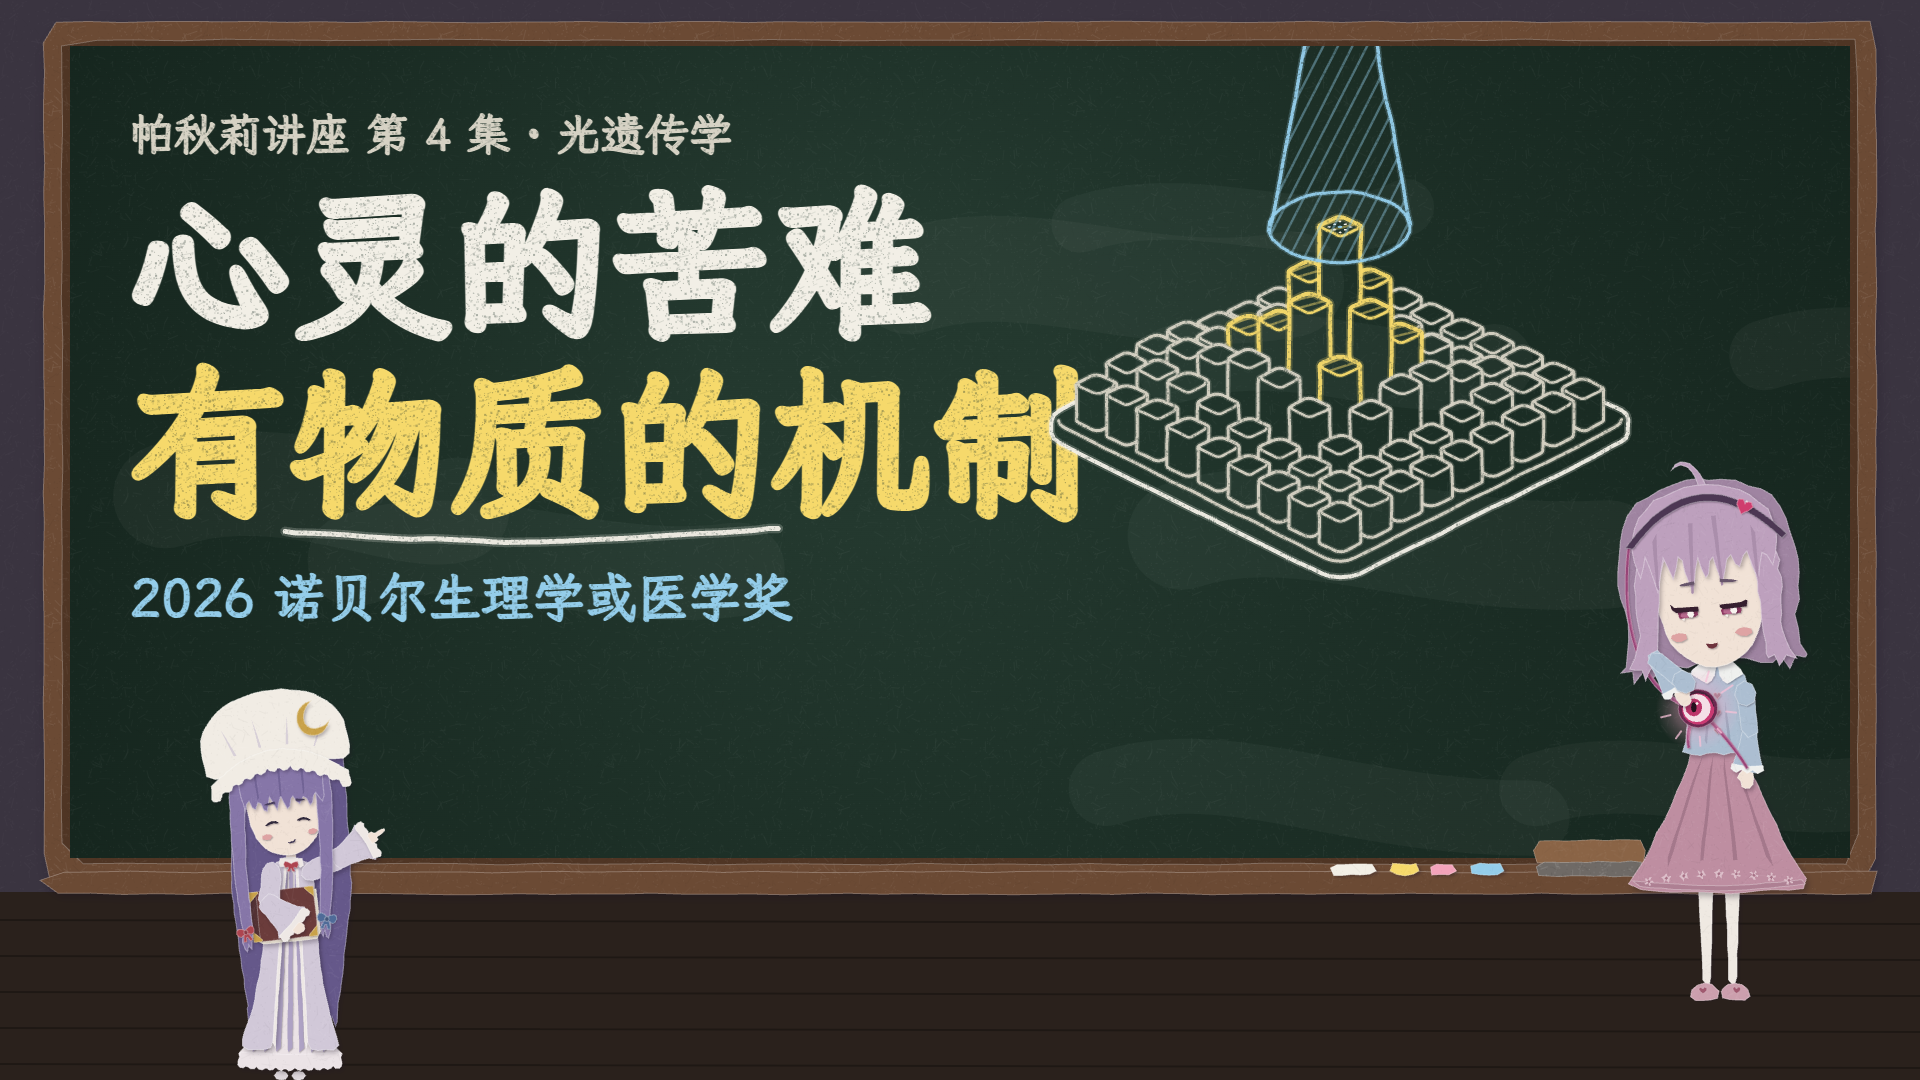
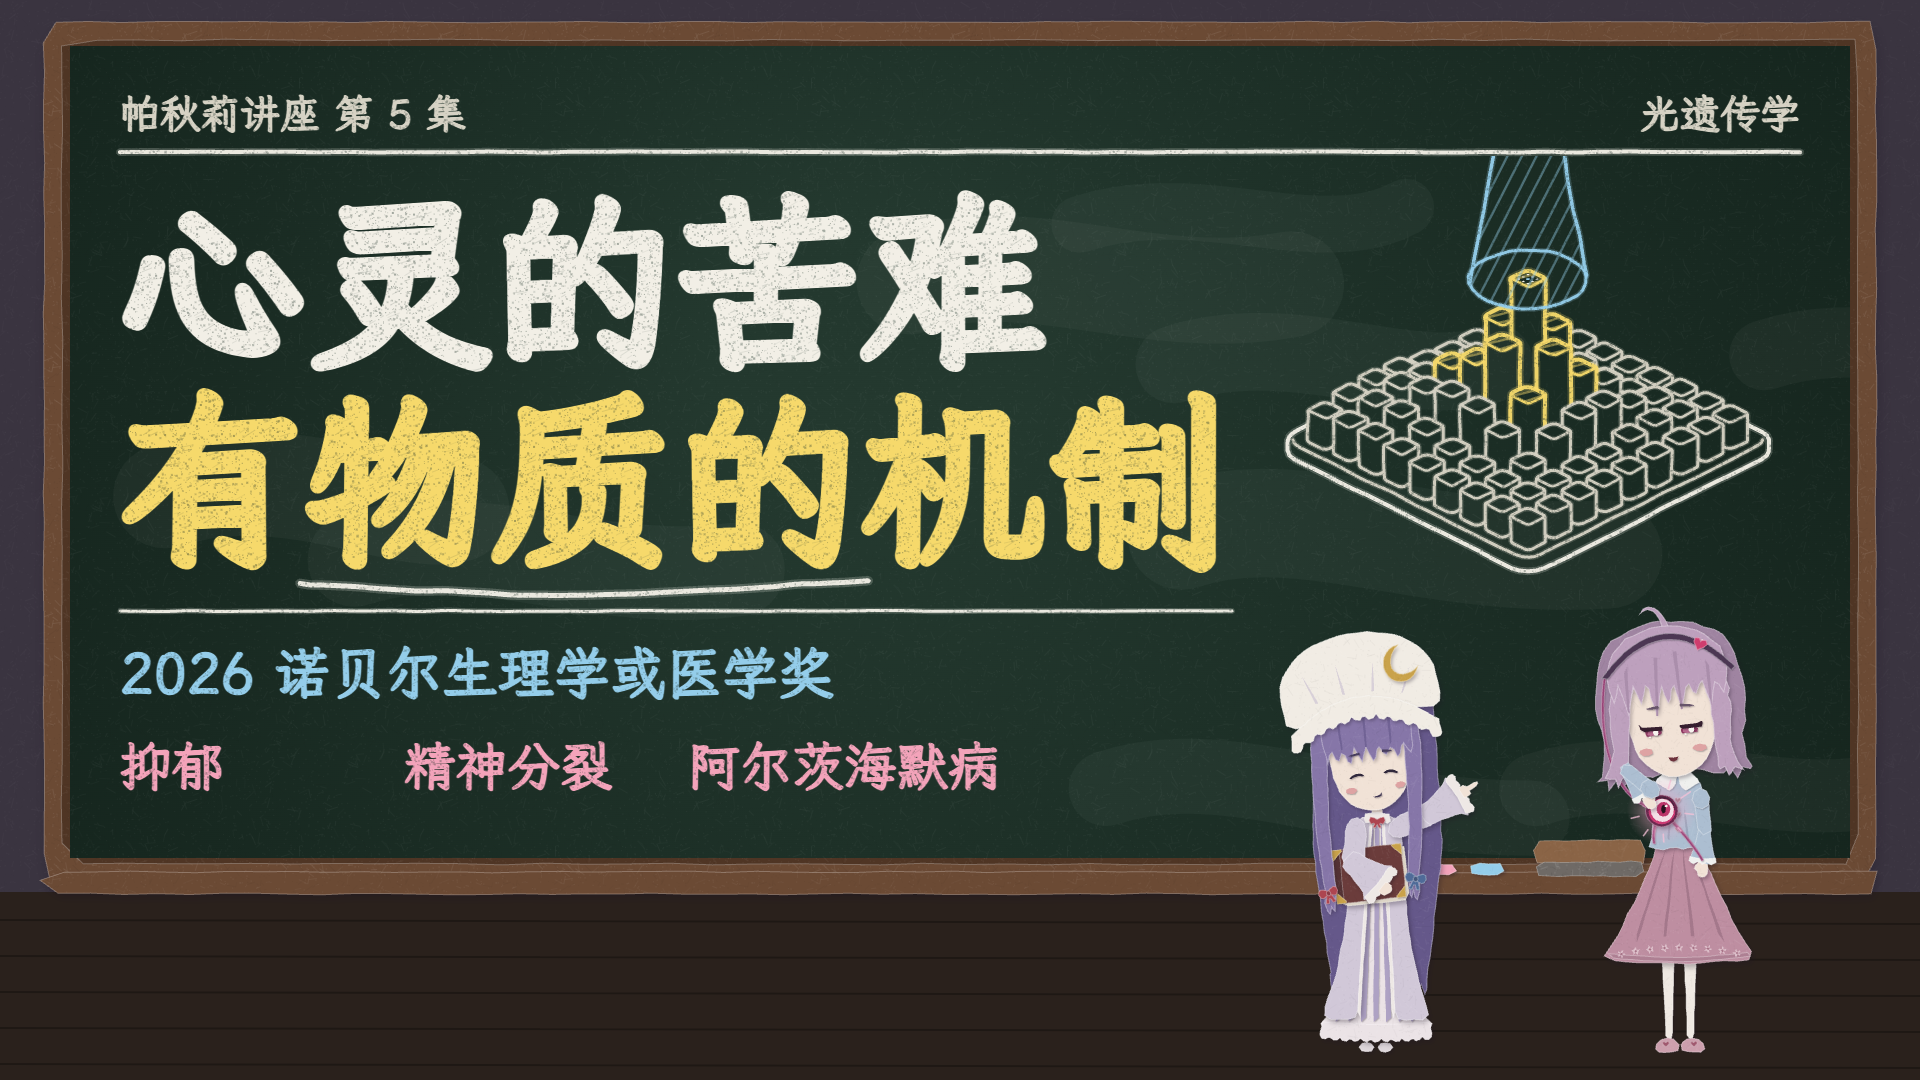
封面改成 6 列网格，两个角色同高同地线；仓库改名为第 5 集

Changed region(s): [[0.0625, 0.0306, 0.9375, 1.0], [0.6562, 0.5806, 0.7812, 0.9778], [0.3438, 0.6722, 0.5312, 0.7333]]

diff --git a/cover.html b/cover.html
@@ -28,24 +28,43 @@ canvas { display: block; }
 <script>
 const COV_AR = Q.get('ar') === '43' ? '43' : '169', CW = COV_AR === '43' ? 1440 : 1920, CH = 1080, cv = document.getElementById('c');
 cv.width = CW; cv.height = CH;
-// 4:3 取 1920 画面中间的 1440（左右各裁 240），元素按各自的版式重新摆
-const L = COV_AR === '43'
-  ? { ox: 240, x: 300, tag: 40, ts: 128, y1: 300, y2: 448, sub: 44, ys: 548, ter: [1330, 400, 470], sat: [1560, 990, 470], pch: [400, 1075, 360] }
-  : { ox: 0, x: 130, tag: 44, ts: 160, y1: 320, y2: 500, sub: 52, ys: 616, ter: [1340, 420, 600], sat: [1720, 1000, 520], pch: [290, 1080, 400] };
+// 瑞士式网格：黑板内 6 列、槽 24；所有字和图的边落在列线和几条横线上。两个角色同高（h 相同）、脚踩同一条地板线。
+// 16:9：左 4 列是字（片名 / 副标题 / 三种病），右 2 列是光照柱阵，两个角色站在柱阵下面。
+// 4:3：取 1920 画面中间 1440（左右各裁 240），同一套版式按列宽缩小。
+const WIDE = COV_AR === '169', OX = WIDE ? 0 : 240;
+const G = WIDE ? { M: 120, cw: 260 } : { M: 312, cw: 196 }, GUT = 24;
+const col = k => G.M + (k - 1) * (G.cw + GUT), colEnd = k => col(k) + G.cw, XR = colEnd(6);
+const Y_INFO = 128, Y_RULE = 152, FEET = 1052, CH_H = WIDE ? 430 : 360;
+function covRule(lc, x0, x1, y, seed, w = 4) { ckLine(lc, [[x0, y], [x1, y]], { w, color: 'ink', seed, amp: .6 }); }
 function covDraw(c) {
-  c.save(); c.translate(-L.ox, 0);
+  c.save(); c.translate(-OX, 0);
   ckRoom(c, 0);
-  const [tx, ty, ts] = L.ter;
+  const tsW = (colEnd(4) - col(1)) / 6 | 0;   // 「有物质的机制」6 个字压满前 4 列
+  const y1 = Y_RULE + 36 + Math.round(tsW * .86), y2 = y1 + Math.round(tsW * 1.08);
+  let terr;
   ckLayer(c, CKCAM0, lc => {
-    ckText(lc, '帕秋莉讲座 第 4 集 · 光遗传学', L.x, 150, { size: L.tag, color: 'muted' });
-    ckText(lc, '心灵的苦难', L.x, L.y1, { size: L.ts, heavy: true });
-    ckText(lc, '有物质的机制', L.x, L.y2, { size: L.ts, color: 'yellow', heavy: true });
-    ckUnderline(lc, '物质的', L.x + zhWidth(lc, '有', L.ts), L.y2, L.ts, 'ink', 1, 9);
-    ckText(lc, '2026 诺贝尔生理学或医学奖', L.x, L.ys, { size: L.sub, color: 'blue' });
-    isoTerrain(lc, { x: tx, y: ty, s: ts, light: [4, 4], r: 3, level: 1.7, beam: true });
+    // 顶线 + 信息行
+    ckText(lc, '帕秋莉讲座 第 5 集', col(1), Y_INFO, { size: 40, color: 'muted' });
+    ckText(lc, '光遗传学', XR, Y_INFO, { size: 40, color: 'muted', align: 'right' });
+    covRule(lc, col(1), XR, Y_RULE, 3);
+    // 片名
+    ckText(lc, '心灵的苦难', col(1), y1, { size: tsW, heavy: true });
+    ckText(lc, '有物质的机制', col(1), y2, { size: tsW, color: 'yellow', heavy: true });
+    ckUnderline(lc, '物质的', col(1) + zhWidth(lc, '有', tsW), y2, tsW, 'ink', 1, 9);
+    // 左 4 列：线 → 副标题 → 三种病，各自起在列线上
+    const yr = y2 + (WIDE ? 64 : 72), ys = yr + (WIDE ? 82 : 90), yi = ys + (WIDE ? 92 : 100);
+    covRule(lc, col(1), colEnd(4), yr, 5, 3);
+    ckText(lc, '2026 诺贝尔生理学或医学奖', col(1), ys, { size: WIDE ? 56 : 46, color: 'blue' });
+    [['抑郁', 1], ['精神分裂', 2], ['阿尔茨海默病', 3]].forEach(([t, k]) => ckText(lc, t, col(k), yi, { size: WIDE ? 52 : 42, color: 'pink' }));
+    // 右 2 列：柱阵，光纤从顶线落下（裁在这两列里）
+    lc.save(); lc.beginPath(); lc.rect(col(5), Y_RULE + 4, XR - col(5), 900); lc.clip();
+    terr = isoTerrain(lc, { x: (col(5) + XR) / 2, y: WIDE ? 440 : 420, s: WIDE ? 500 : 384, light: [4, 4], r: 3, level: 1.7, beam: true });
+    lc.restore();
   }, { grainAl: .4 });
-  drawPatchouli(c, { x: L.pch[0], y: L.pch[1], h: L.pch[2], facing: 1, pose: 'point', gesture: .7, mood: 'smug', t: 1.2 });
-  drawSatori(c, { x: L.sat[0], y: L.sat[1], h: L.sat[2], facing: -1, pose: 'read', mood: 'smile', read: 1, eyeLook: [.8, -.4], t: 1.2 });
+  // 两个角色：同高，脚踩同一条线，各站第 5、6 列中线
+  const xp = (col(5) + colEnd(5)) / 2 - 10, xs = (col(6) + colEnd(6)) / 2 + 10;
+  drawPatchouli(c, { x: xp, y: FEET, h: CH_H, facing: 1, pose: 'point', gesture: .7, mood: 'smug', t: 1.2 });
+  drawSatori(c, { x: xs, y: FEET, h: CH_H, facing: -1, pose: 'read', mood: 'smile', read: 1, eyeLook: [-.4, -.6], t: 1.2 });
   c.restore();
 }
 document.fonts.load('40px WenKai', '心灵的苦难有物质的机制帕秋莉讲座第集光遗传学诺贝尔生理学或医学奖').then(() => document.fonts.ready).then(() => { const c = cv.getContext('2d'); CLOCK0 = 0; covDraw(c); window.__ready = true; });

diff --git a/README.md b/README.md
@@ -1,8 +1,8 @@
-# 心灵的苦难，有物质的机制（帕秋莉讲座 第 4 集 · 光遗传学）
+# 心灵的苦难，有物质的机制（帕秋莉讲座 第 5 集 · 光遗传学）
 
 2026 年诺贝尔生理学或医学奖（光遗传学）× 「精神疾病有物质的、可被理解的机制」。约 5 分钟，黑板报画风，古明地觉首次登场。方案、台词、来源核对见 `docs/方案.md`、`docs/来源.md`，发布文案 `docs/发布.md`。本集新增：黑板舞台 `src/lec/chalk.js`（照 V8 黑板报的规范）、粉笔线框 `src/lec/iso.js`（照 hairline 重画，MIT）、粉笔音效 `src/lec/sfx.js`、古明地觉 `src/character/satori.js`；BGM 是东方地灵殿「少女さとり ～ 3rd eye」（ZUN）的代码改编（`tools/bgm.mjs` 从扒谱取音符 → `src/bgm-data.js`，`src/core.js` 的 `score()` 编配）。
 
-出片：`npm run voice && npm run render` → `out/patchouli-lecture-4.mp4`。
+出片：`npm run voice && npm run render` → `out/patchouli-lecture-5.mp4`。
 
 ---
 

diff --git a/docs/发布.md b/docs/发布.md
@@ -2,7 +2,7 @@
 
 ## 标题
 
-今年诺贝尔奖发给了一把「光的开关」：心灵的苦难，有物质的机制【帕秋莉讲座 第 4 集】
+今年诺贝尔奖发给了一把「光的开关」：心灵的苦难，有物质的机制【帕秋莉讲座 第 5 集】
 
 ## 封面
 
